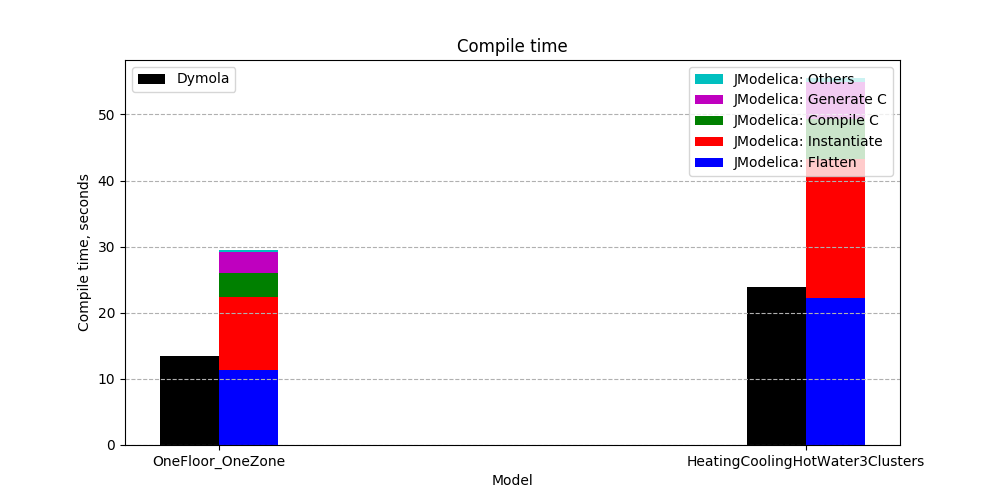
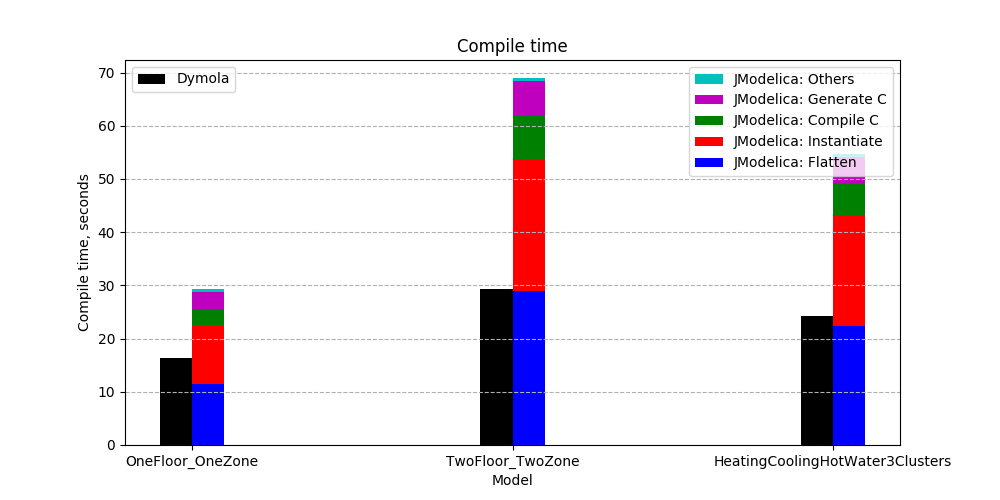
added arguments [ci skip]

diff --git a/models/benchmarks/benchmarkStudy.py b/models/benchmarks/benchmarkStudy.py
@@ -22,17 +22,17 @@ def create_working_directory():
     worDir = tempfile.mkdtemp( prefix='tmp_timeBench_' + getpass.getuser() )
     return worDir
 
-def checkout_repository(runSettings, working_directory):
+def checkout_repository(setArgs, local_lib, working_directory):
     from git import Repo
     import git
 
-    BRANCH = runSettings['BRANCH']
-    LOCAL_BUILDINGS_LIBRARY = runSettings['LOCAL_BUILDINGS_LIBRARY']
-    from_git_hub = runSettings['FROM_GIT_HUB']
-    commit = runSettings['COMMIT']
+    BRANCH = setArgs.b
+    LOCAL_BUILDINGS_LIBRARY = local_lib
+    from_git_hub = setArgs.git
+    commit = setArgs.c
 
     if from_git_hub:
-        print("Checking out repository branch {}".format(BRANCH))
+        print("Checking out repository branch {}, commit {}".format(BRANCH, commit))
         git_url = "https://github.com/lbl-srg/modelica-buildings"
         Repo.clone_from(git_url, working_directory)
         g = git.Git(working_directory)
@@ -44,7 +44,7 @@ def checkout_repository(runSettings, working_directory):
         print("*** Copying Buildings library to {}".format(des))
         shutil.copytree(LOCAL_BUILDINGS_LIBRARY, des)
 
-def _profile(setting,tool,JMODELICA_INST,runSpace):
+def _profile(setting,tool,JMODELICA_INST,args):
     ''' Run simulation with both dymola and JModelica. The function returns
         CPU time used for compile and simulation.
     '''
@@ -63,8 +63,8 @@ def _profile(setting,tool,JMODELICA_INST,runSpace):
         # Update MODELICAPATH to get the right library version
         os.environ["MODELICAPATH"] = ":".join([setting['lib_dir'], out_dir])
         s=Simulator(model, "dymola", outputDirectory=out_dir)
-        s.setSolver(setting['solver'])
-        s.setStopTime(setting['stop_time'])
+        s.setSolver(args.s)
+        s.setStopTime(args.runtime)
         s.setTolerance(1E-6)
         tstart_tr = datetime.now()
         s.simulate()
@@ -76,7 +76,7 @@ def _profile(setting,tool,JMODELICA_INST,runSpace):
         tCPU=r.max("CPUtime")
         tTraTim = tTotTim-tCPU
         nEve=r.max('EventCounter')
-        solver=setting['solver']
+        solver=args.s
         print "tTraTim = {}, tCPU = {}, nEve = {}, solver = {},  {}"\
             .format(tTraTim, tCPU, nEve, solver, model)
         shutil.rmtree("out")
@@ -96,7 +96,7 @@ def _profile(setting,tool,JMODELICA_INST,runSpace):
         # create file to log output during compile process
         logFile = 'd:' + worDir + '/comLog.txt'
         # create heap space input
-        heapSpace = '-Xmx' + runSpace
+        heapSpace = '-Xmx' + args.heapSpace
 
         loader = jja2.FileSystemLoader('SimulatorTemplate_JModelica.py')
         env = jja2.Environment(loader=loader)
@@ -108,7 +108,7 @@ def _profile(setting,tool,JMODELICA_INST,runSpace):
                                    fmi_version=2.0,
                                    sim_lib_path=worDir,
                                    log_file=logFile,
-                                   end_time=setting['stop_time'])
+                                   end_time=args.runtime)
         runJM_file = "runJM.py"
         with open(runJM_file,'w') as rf:
             rf.write(str(runJMOut))
@@ -371,11 +371,57 @@ def genPlots(resultsFile, genPlot):
 if __name__=='__main__':
     import json
     import caseSettings
+    import argparse
+
     # ------ retrieve settings ------
     settings, tools, runSettings = caseSettings.get_settings()
     lib_dir = create_working_directory()
+    # ------ user input from console ------
+    parser = argparse.ArgumentParser(
+        description = 'Benchmark study of computing time.',
+        epilog = "Use as benchmarkStudy.py --tool dymola --from_git_hub True --branch master --commit HEAD --solver radau --runtime 7200 --heapSpace 7200m")
+    parser.add_argument(\
+                        '--from_git_hub',
+                        help='Check if clone the repository from Github',
+                        default=runSettings['FROM_GIT_HUB'],
+                        dest='git')
+    parser.add_argument(\
+                        '--branch',
+                        help='Branch name, such as master',
+                        default=runSettings['BRANCH'],
+                        dest='b')
+    parser.add_argument(\
+                        '--commit',
+                        help='Commit number, such as HEAD',
+                        default=runSettings['COMMIT'],
+                        dest='c')
+    parser.add_argument(\
+                        '--solver',
+                        help='Set solver for Dymola simulation. JModelica uses its default solver Cvode',
+                        default=runSettings['SOLVER'],
+                        dest='s')
+    parser.add_argument(\
+                        '--runtime',
+                        help='Total simulation time in seconds, such as 2*24*3600',
+                        default=runSettings['END_TIME'],
+                        dest='runtime')
+    parser.add_argument(\
+                        '--tool',
+                        help='Tools to run simulation, Dymola or JModelica',
+                        nargs="*",
+                        default=tools,
+                        dest='tool')
+    parser.add_argument(\
+                        '--heapSpace',
+                        help='Heap space for running JModelica, such as 7200m',
+                        default=runSettings['Heap_Space'],
+                        dest='heapSpace')
+
+    args = parser.parse_args()
+
     # ------ clone and checkout repository to working folder ------
-    checkout_repository(runSettings, lib_dir)
+    local_lib = runSettings['LOCAL_BUILDINGS_LIBRARY']
+    checkout_repository(args, local_lib, lib_dir)
     # ------ create folder to save results ------
     if os.path.exists("results"):
         shutil.rmtree("results")
@@ -386,7 +432,9 @@ if __name__=='__main__':
     results = {}
     results['title'] = 'timeLog'
     results['case_list'] = {}
-    for tool in tools:
+
+    for tool in args.tool:
+        print ("========== current tool is: {} ==========".format(tool))
         if tool == "dymola":
             results['case_list']['dymola'] = []
             for index, setting in enumerate(settings):
@@ -394,7 +442,7 @@ if __name__=='__main__':
                 model=setting['model']
                 modelName=model.split(".")[-1]
                 tTraTim, tCPU, nEve, solver \
-                    =_profile(setting,tool,runSettings['JMODELICA_INST'], runSettings['Heap_Space'])
+                    =_profile(setting,tool,runSettings['JMODELICA_INST'],args)
                 results['case_list']['dymola'].append({
                     'modelName': modelName,
                     'tTraTim': float(tTraTim),
@@ -409,7 +457,7 @@ if __name__=='__main__':
                 modelName=model.split(".")[-1]
                 totComTim, totSimTim, flaModTim, insModTim, comCTim, \
                 genCodTim, otherComTim, numStaEve, numTimEve, solTyp \
-                    = _profile(setting,tool,runSettings['JMODELICA_INST'],runSettings['Heap_Space'])
+                    = _profile(setting,tool,runSettings['JMODELICA_INST'],args)
                 results['case_list']['JModelica'].append({
                     'modelName': modelName,
                     'tComTim': float(totComTim),

diff --git a/models/benchmarks/caseSettings.py b/models/benchmarks/caseSettings.py
@@ -10,7 +10,7 @@ def get_settings():
         "END_TIME": 2*24*3600,
         "BRANCH": "master",
         "COMMIT": "HEAD",
-        "FROM_GIT_HUB": False,
+        "FROM_GIT_HUB": True,
         "LOCAL_BUILDINGS_LIBRARY": "/home/jianjun/GitFolder/modelica-buildings/Buildings",
         "JMODELICA_INST": "/home/jianjun/proj/JModelica2.0",
         "Heap_Space": "7200m"
@@ -81,9 +81,13 @@ def get_settings():
          "start_time": 0,
          "stop_time": runSettings['END_TIME']})
     settings.append(\
+        {'model': "Buildings.Examples.ScalableBenchmarks.BuildingVAV.Examples.TwoFloor_TwoZone",
+         "solver": runSettings['SOLVER'],
+         "start_time": 0,
+         "stop_time": runSettings['END_TIME']})
+    settings.append(\
         {'model': "Buildings.Experimental.DistrictHeatingCooling.Examples.HeatingCoolingHotWater3Clusters",
          "solver": runSettings['SOLVER'],
          "start_time": 0,
          "stop_time": runSettings['END_TIME']})
-
     return settings, tools, runSettings
